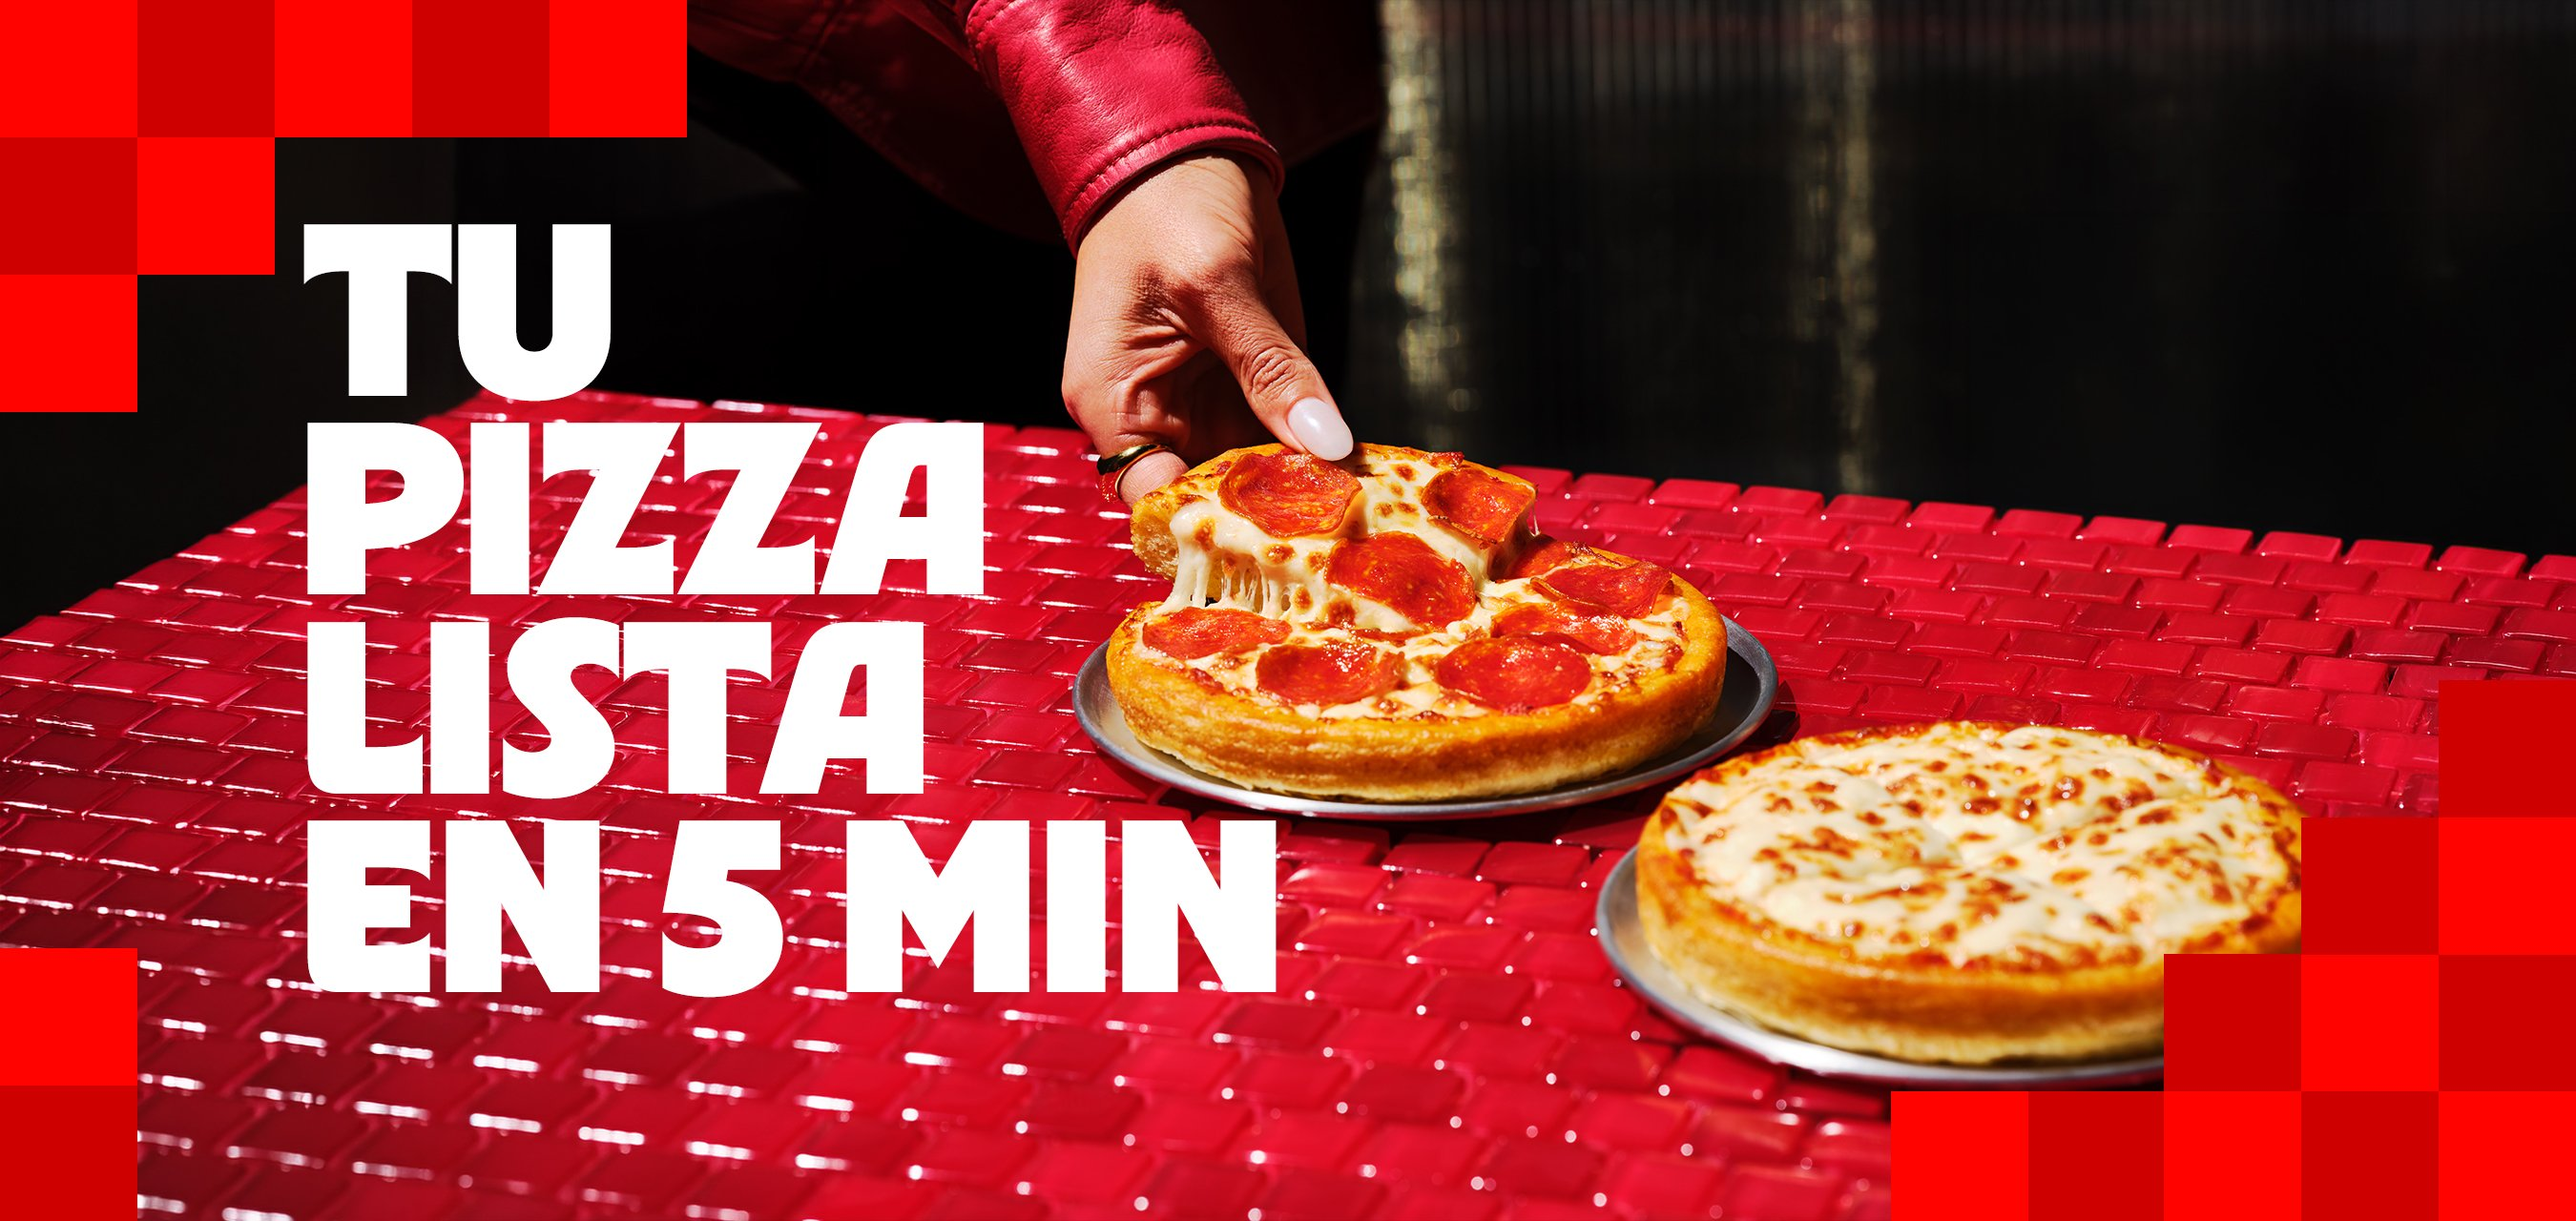
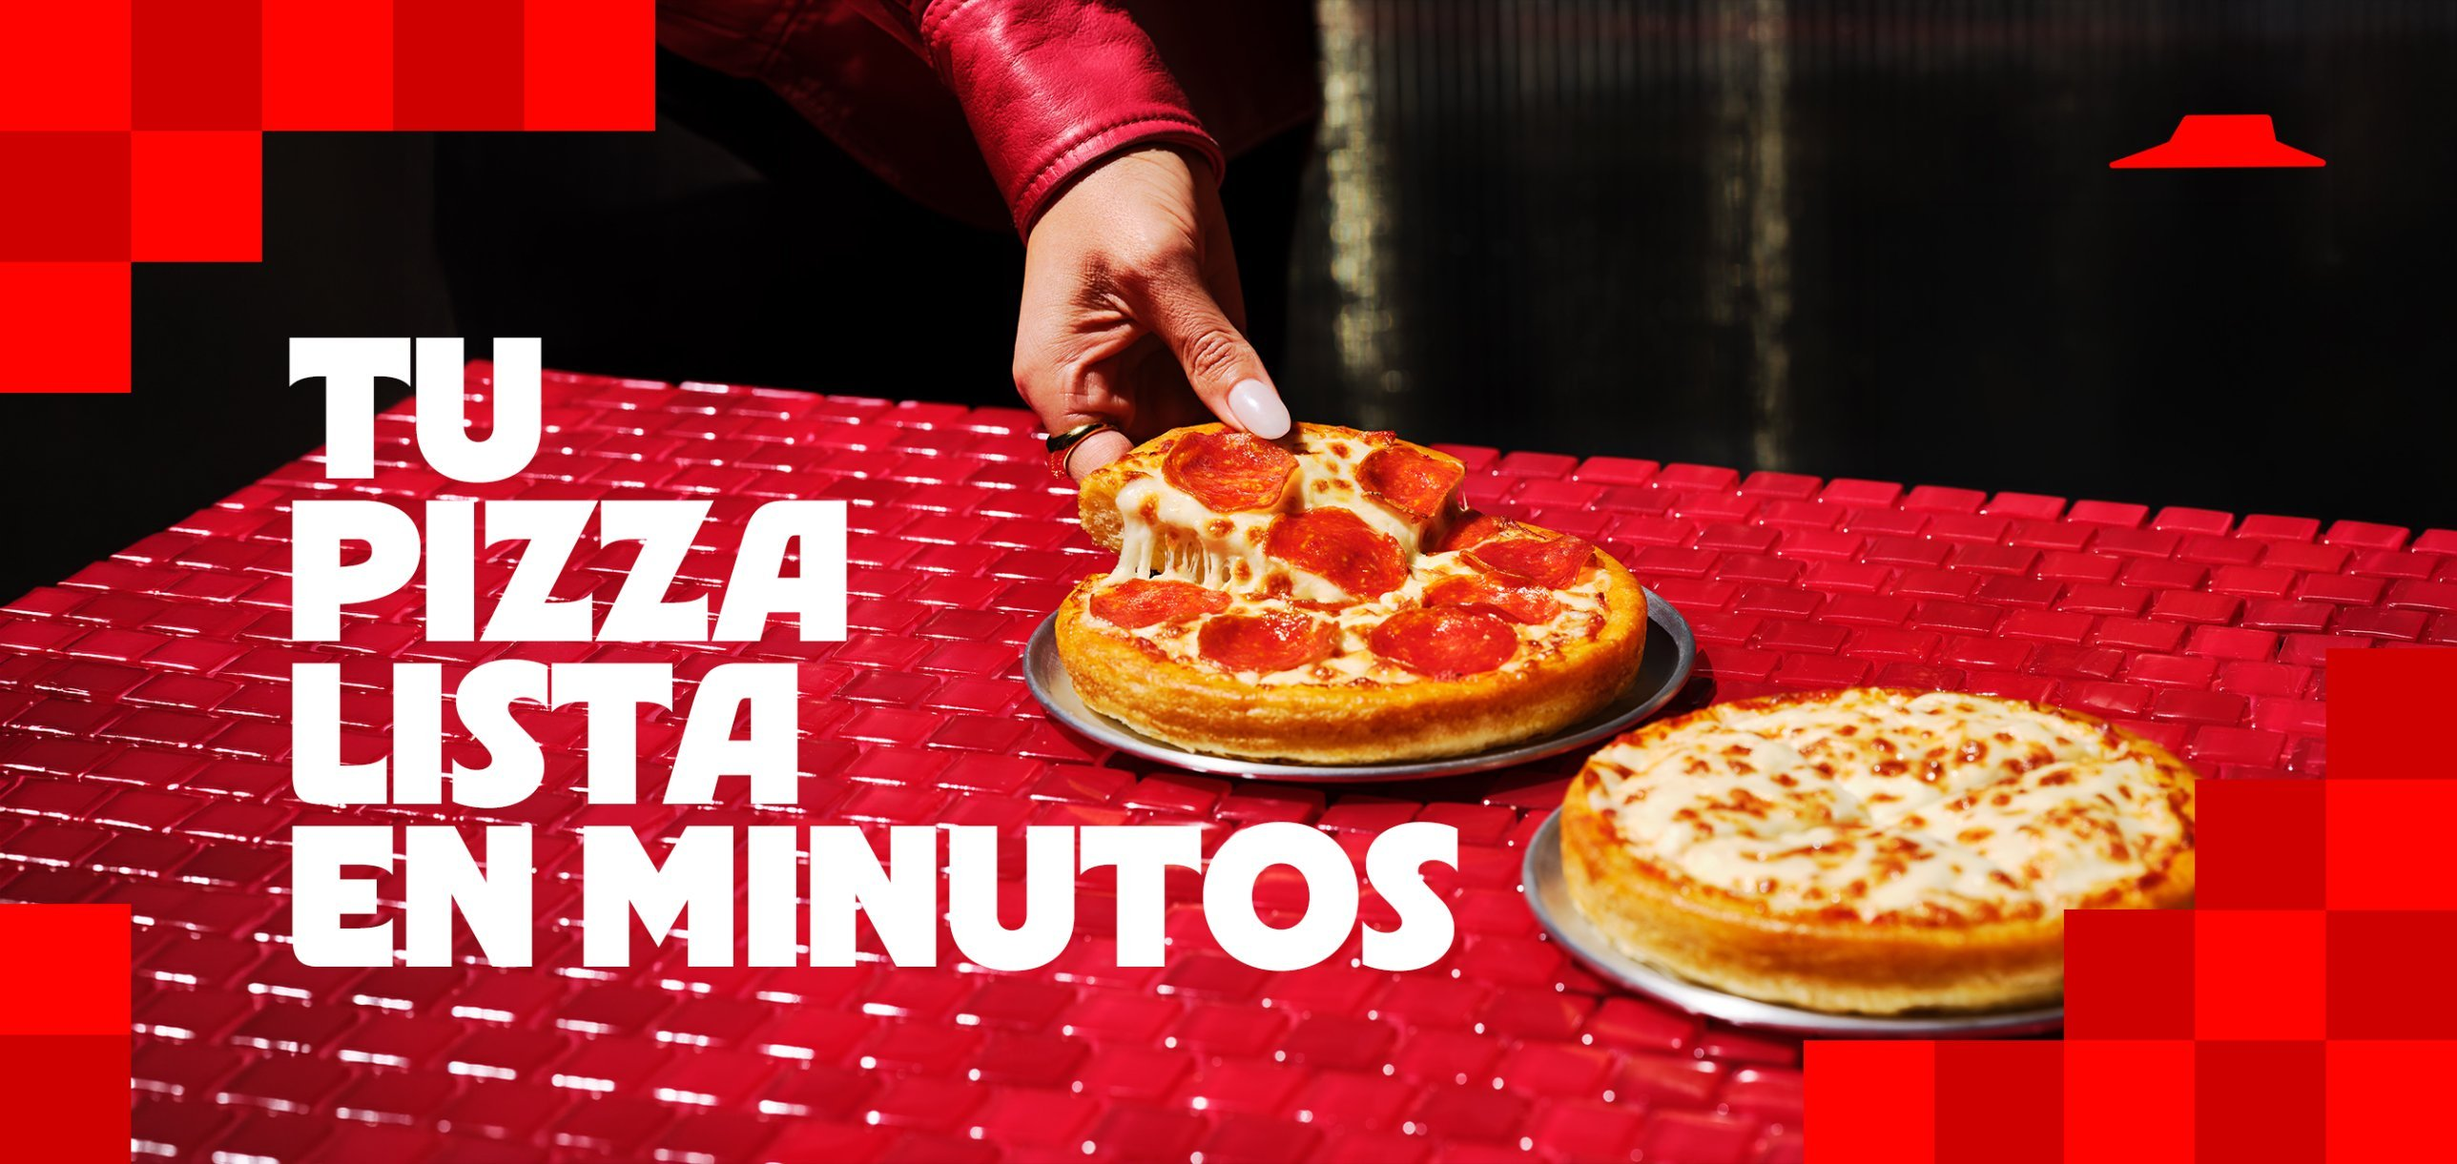
actualizar portada

Changed region(s): [[0.0932, 0.1556, 0.6211, 0.8403], [0.8385, 0.0934, 0.9627, 0.1556]]

diff --git a/index.html b/index.html
@@ -13,7 +13,7 @@
 </head>
 <body>
     <header class="hero">
-    <img class="hero-image" src="desktop_hero.png?v=2" alt="Pizza Hut Express - Tu pizza lista en 5 min" width="2700" height="1280" loading="eager">
+    <img class="hero-image" src="desktop_hero.png?v=3" alt="Pizza Hut Express - Tu pizza lista en 5 min" width="2576" height="1221" loading="eager">
   </header>
 
   <main>
